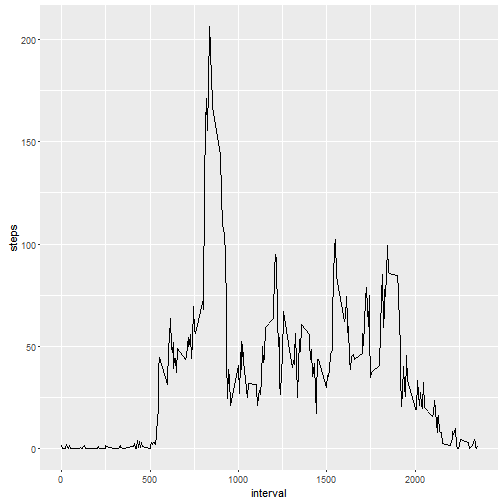
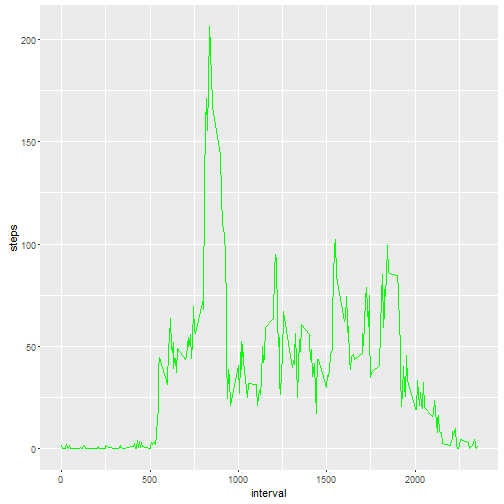
Commit with all files - use base plotting instead of ggplot for histograms

diff --git a/PA1_template.md b/PA1_template.md
@@ -7,6 +7,8 @@ output:
 
 
 ```r
+require(ggplot2)
+library(ggplot2)
 library(knitr)
 opts_chunk$set(echo=TRUE)
 ```
@@ -32,24 +34,14 @@ str(activity)
 ```r
 steps_per_day <- aggregate(steps~date,data=activity,sum)
 
-require(ggplot2)
-```
-
-```
-## Loading required package: ggplot2
-```
-
-```r
-library(ggplot2)
-ggplot(steps_per_day,aes(steps,fill=date)) +
-geom_histogram(binwidth = 53)
+hist(steps_per_day$steps,xlab="Steps per day",main = "Histogram of Steps per day")
 ```
 
 ![plot of chunk MeanTotalStepsPerDay](figure/MeanTotalStepsPerDay-1.png)
 
 ```r
 na_mean_steps_per_day <- as.integer(mean(steps_per_day$steps))
-na_median_steps_per_day <- median(steps_per_day$steps)
+na_median_steps_per_day <- as.integer(median(steps_per_day$steps))
 ```
 Mean of the total number of steps taken per day: 10766  
 Median of the total number of steps taken per day: 10765  
@@ -61,7 +53,7 @@ Median of the total number of steps taken per day: 10765
 avg_steps_per_day <- aggregate(steps~interval,data=activity,mean)
 
 ggplot(avg_steps_per_day, aes(interval, steps)) + 
-        geom_line()
+        geom_line(col="green")
 ```
 
 ![plot of chunk AverageDailyActivityPattern](figure/AverageDailyActivityPattern-1.png)
@@ -76,40 +68,50 @@ Interval: 835, on average across all the days in the dataset, contains the maxim
 ## Imputing missing values
 
 ```r
-na_rows <- nrow(activity[is.na(activity),])
+# Rows with steps value of NA 
+na_rows <- nrow(activity[is.na(activity$steps),])
 
-# Used avg_steps_per_day for estimated values of na steps
+# steps NA values appear for the following dates:
+unique(activity[is.na(activity),2])
+```
+
+```
+## [1] "2012-10-01" "2012-10-08" "2012-11-01" "2012-11-04" "2012-11-09"
+## [6] "2012-11-10" "2012-11-14" "2012-11-30"
+```
+
+```r
+# Since there are NA values for steps in all intervals on these dates, estimating values for these dates with an aggregate would return NAs. Assumption: NA values imply no steps were taken, replacing NA values with 0.
 activity_tidy <- activity
-activity_tidy[is.na(activity_tidy)==TRUE] <- as.integer(avg_steps_per_day$steps)
+activity_tidy[is.na(activity_tidy)==TRUE] <- 0
 
 steps_per_day <- aggregate(steps~date,data=activity_tidy,sum)
 
-ggplot(steps_per_day,aes(steps,fill=date)) +
-geom_histogram(binwidth = 53)
+hist(steps_per_day$steps,xlab="Steps per day",main = "Histogram of Steps per day")
 ```
 
 ![plot of chunk ImputMissingValues](figure/ImputMissingValues-1.png)
 
 ```r
 mean_steps_per_day <- as.integer(mean(steps_per_day$steps))
-median_steps_per_day <- median(steps_per_day$steps)
+median_steps_per_day <- as.integer(median(steps_per_day$steps))
 ```
 
 
 Total number of missing values in the dataset (i.e. the total number of rows with NAs): 2304
 
-Mean of the total number of steps taken per day: 10749  
-Median of the total number of steps taken per day: 10641  
+Mean of the total number of steps taken per day: 9354  
+Median of the total number of steps taken per day: 10395  
 
-These values differ from the estimates from the first part of the assignment, an overall increase of max count with a left shift of its step indicator
+These values differ from the estimates from the first part of the assignment, Step per day bin, from 0 to 5000 increased.
 
 Imputing missing data on the estimates of the total daily number of steps impacts:
 
-Means went from 10766 to 10749
+Means went from 10766 to 9354
 
-Medians went from 10765 to 10641
+Medians went from 10765 to 10395
 
-Histograms went from a max count of 3 at appoximately 15000 steps to a max count of 8 at slightly over 10000 steps
+Histograms Step per day bin, from 0 to 5000, increased from 5 to 13.
 
 
 ## Are there differences in activity patterns between weekdays and weekends?
@@ -120,7 +122,7 @@ activity_tidy <- transform(activity_tidy,day=factor(ifelse(weekdays(as.Date(acti
 avg_steps_per_day <- aggregate(interval~steps +day,data=activity_tidy,mean)
 
 ggplot(avg_steps_per_day, aes(interval, steps)) + 
-        geom_line() +
+        geom_line(col="green") +
         facet_wrap(~day,ncol = 1)
 ```
 
